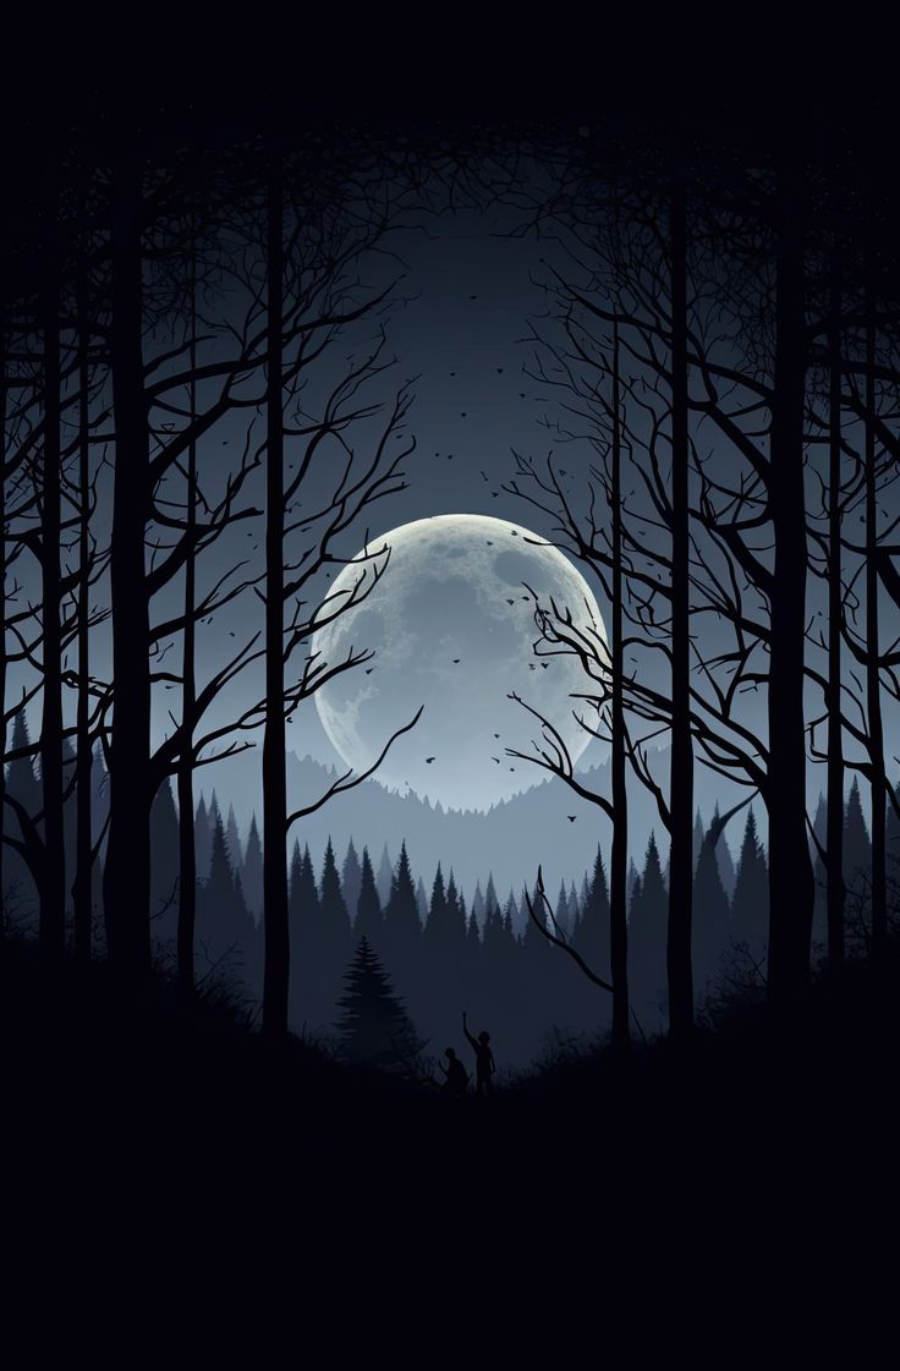
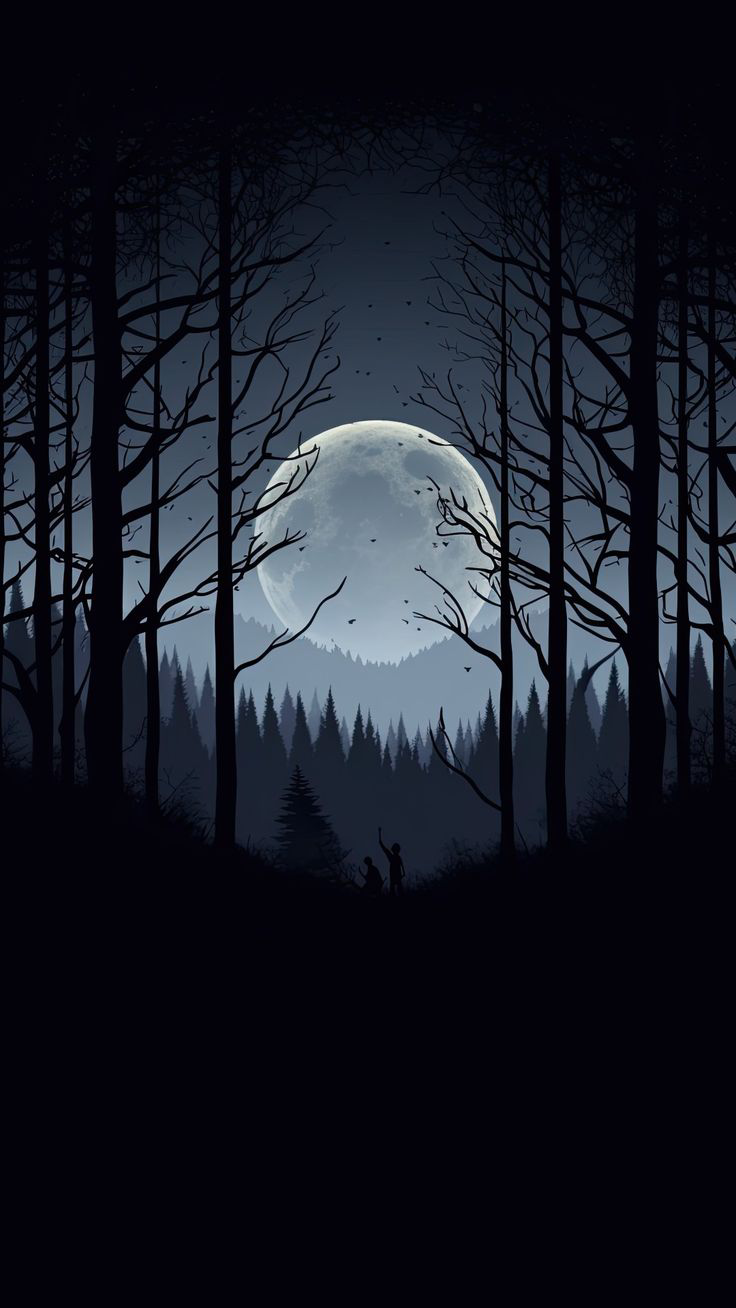
add debug rect
add background image

Changed region(s): [[0.1562, 0.1835, 1.0, 0.7951], [0.0, 0.2141, 0.125, 0.6728], [0.4062, 0.1529, 0.4375, 0.1835]]

diff --git a/flame_lab/lib/my_game.dart b/flame_lab/lib/my_game.dart
@@ -1,6 +1,4 @@
-import 'package:flame/cache.dart';
 import 'package:flame/extensions.dart';
-import 'package:flame/flame.dart';
 import 'package:flame/game.dart';
 import 'package:flame/events.dart';
 import 'package:logger/logger.dart';
@@ -20,52 +18,60 @@ class MyGame extends FlameGame with TapCallbacks {
     printer: PrettyPrinter(),
   );
 
+  @override
   Future<void> onLoad() async {
     super.onLoad();
-    print(size);
-    deviceSize = size;  
-    camera = 
-    CameraComponent.withFixedResolution(width: screenWidth, height: screenHeight);
-    camera.viewport.debugColor = Colors.pink;
+    deviceSize = size;
+    camera = CameraComponent.withFixedResolution(
+        width: screenWidth, height: screenHeight);
   }
+
   @override
   void onMount() {
-    createReact(Vector2(0, -750), Vector2(50, 50), Colors.white);
-    createReact(Vector2(450, 0), Vector2(50, 50), Colors.white);
-    createReact(Vector2(-450, 0), Vector2(50, 50), Colors.white);
-    createReact(
-        Vector2(0, 800), 
-        Vector2(screenWidth, screenHeight / 7), 
-        Colors.white);
-    
+    createReact(Vector2(0, -screenHeight / 2), Vector2(50, 50), Colors.white,
+        anchor: Anchor.topCenter);
+    createReact(Vector2(screenWidth / 2, 0), Vector2(50, 50), Colors.white,
+        anchor: Anchor.centerRight);
+    createReact(Vector2(-screenWidth / 2, 0), Vector2(50, 50), Colors.white,
+        anchor: Anchor.centerLeft);
+    createReact(Vector2(0, screenHeight / 2), Vector2(50, 50), Colors.white,
+        anchor: Anchor.bottomCenter);
+    createBackgroundImage(Vector2(0, 0), Vector2(screenWidth, screenHeight));
+
     world.add(player = MyPlayer());
 
     debugMode = true;
     super.onMount();
   }
 
-  void createReact(Vector2 pos, Vector2 size, Color color) {
+  void createReact(Vector2 pos, Vector2 size, Color color,
+      {Anchor anchor = Anchor.bottomCenter}) {
     var rectangleCom = RectangleComponent(position: pos, size: size);
-    rectangleCom.anchor = Anchor.bottomCenter;
+    rectangleCom.anchor = anchor;
     rectangleCom.paint = Paint()..color = color;
     world.add(rectangleCom);
   }
 
   void createBackgroundImage(Vector2 pos, Vector2 size) async {
-    final image = await images.load('background.png');
-    final spriteComponent = SpriteComponent();
-    spriteComponent.sprite = await loadSprite("background.png");
-    spriteComponent.size = size;
-    add(spriteComponent);
-
+    final spriteComponent = SpriteComponent(priority: -1);
+    final playerImage = await images.load('background.png');
+    var scaleFactor = screenWidth / playerImage.size.x;
+    final player = Sprite(playerImage, srcSize: playerImage.size);
+    spriteComponent.scale = Vector2(scaleFactor, scaleFactor);
+    spriteComponent.size = Vector2(
+        playerImage.size.x * scaleFactor, playerImage.size.y * scaleFactor);
+    spriteComponent.sprite = player;
+    spriteComponent.position = pos;
+    spriteComponent.anchor = Anchor.center;
+    spriteComponent.autoResize = true;
+    world.add(spriteComponent);
   }
 
   @override
-  Color backgroundColor() => Colors.green;
+  Color backgroundColor() => Colors.black;
 
   @override
   void onTapDown(TapDownEvent event) {
-    logger.d('onTapDown $tapCount');
     tapCount++;
     player.jump();
     super.onTapDown(event);
